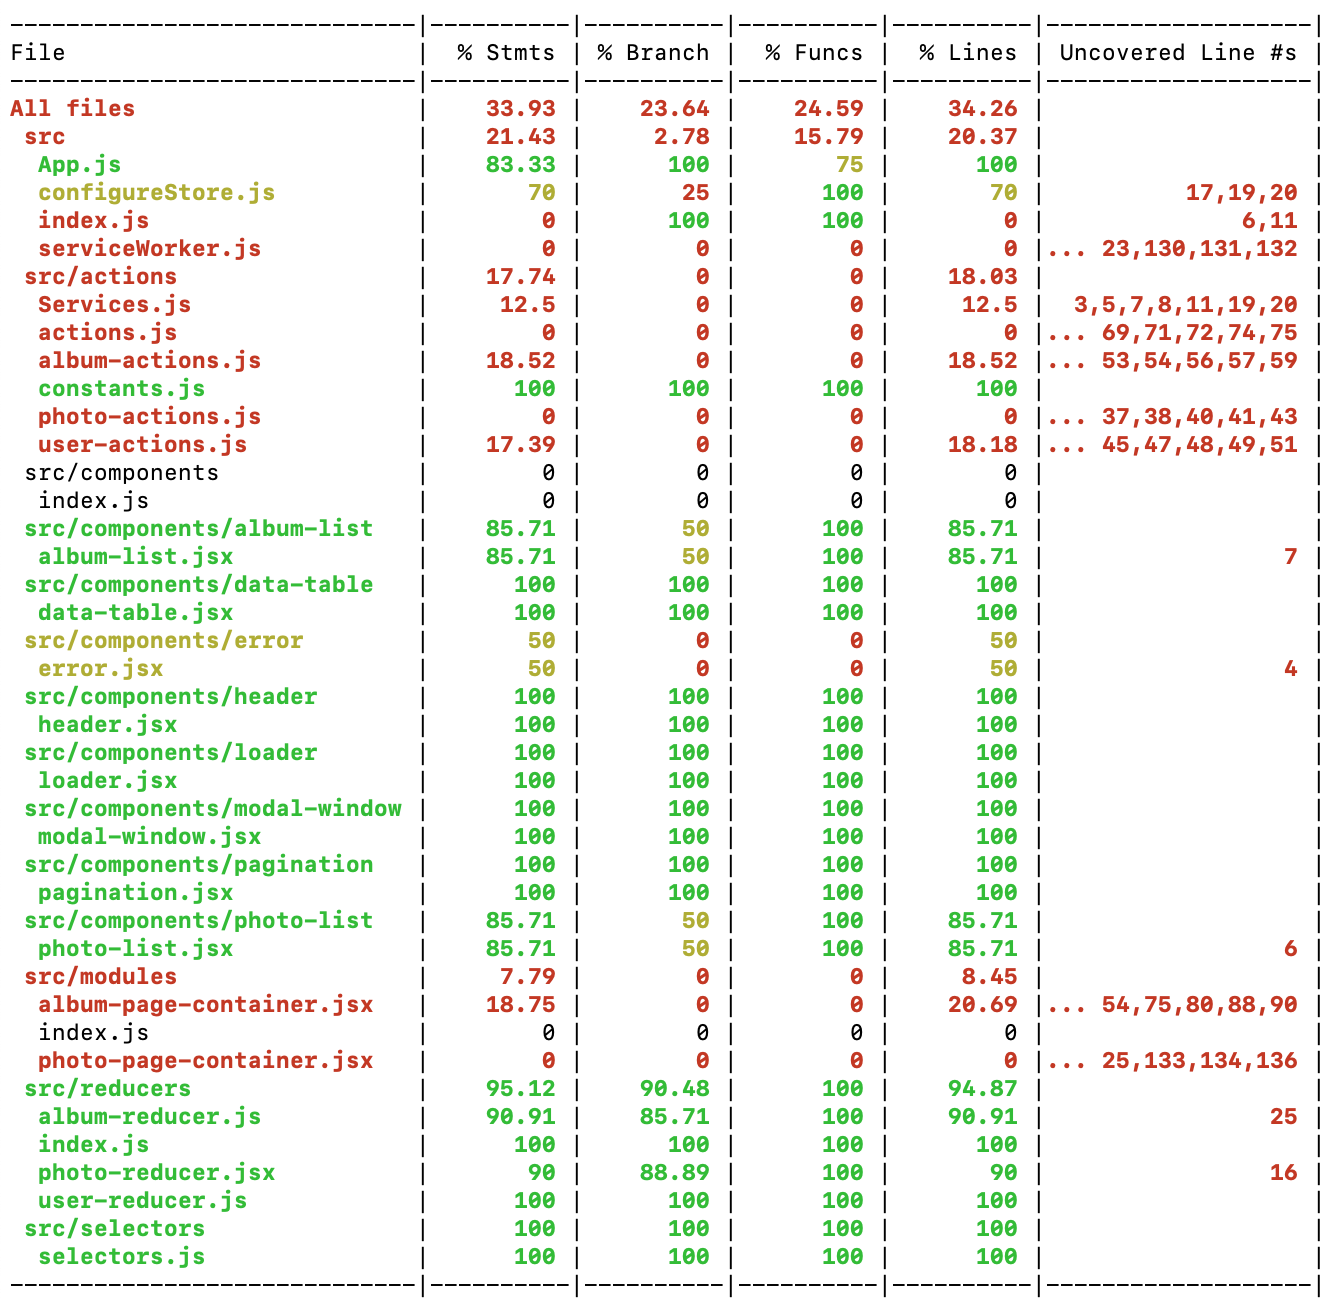
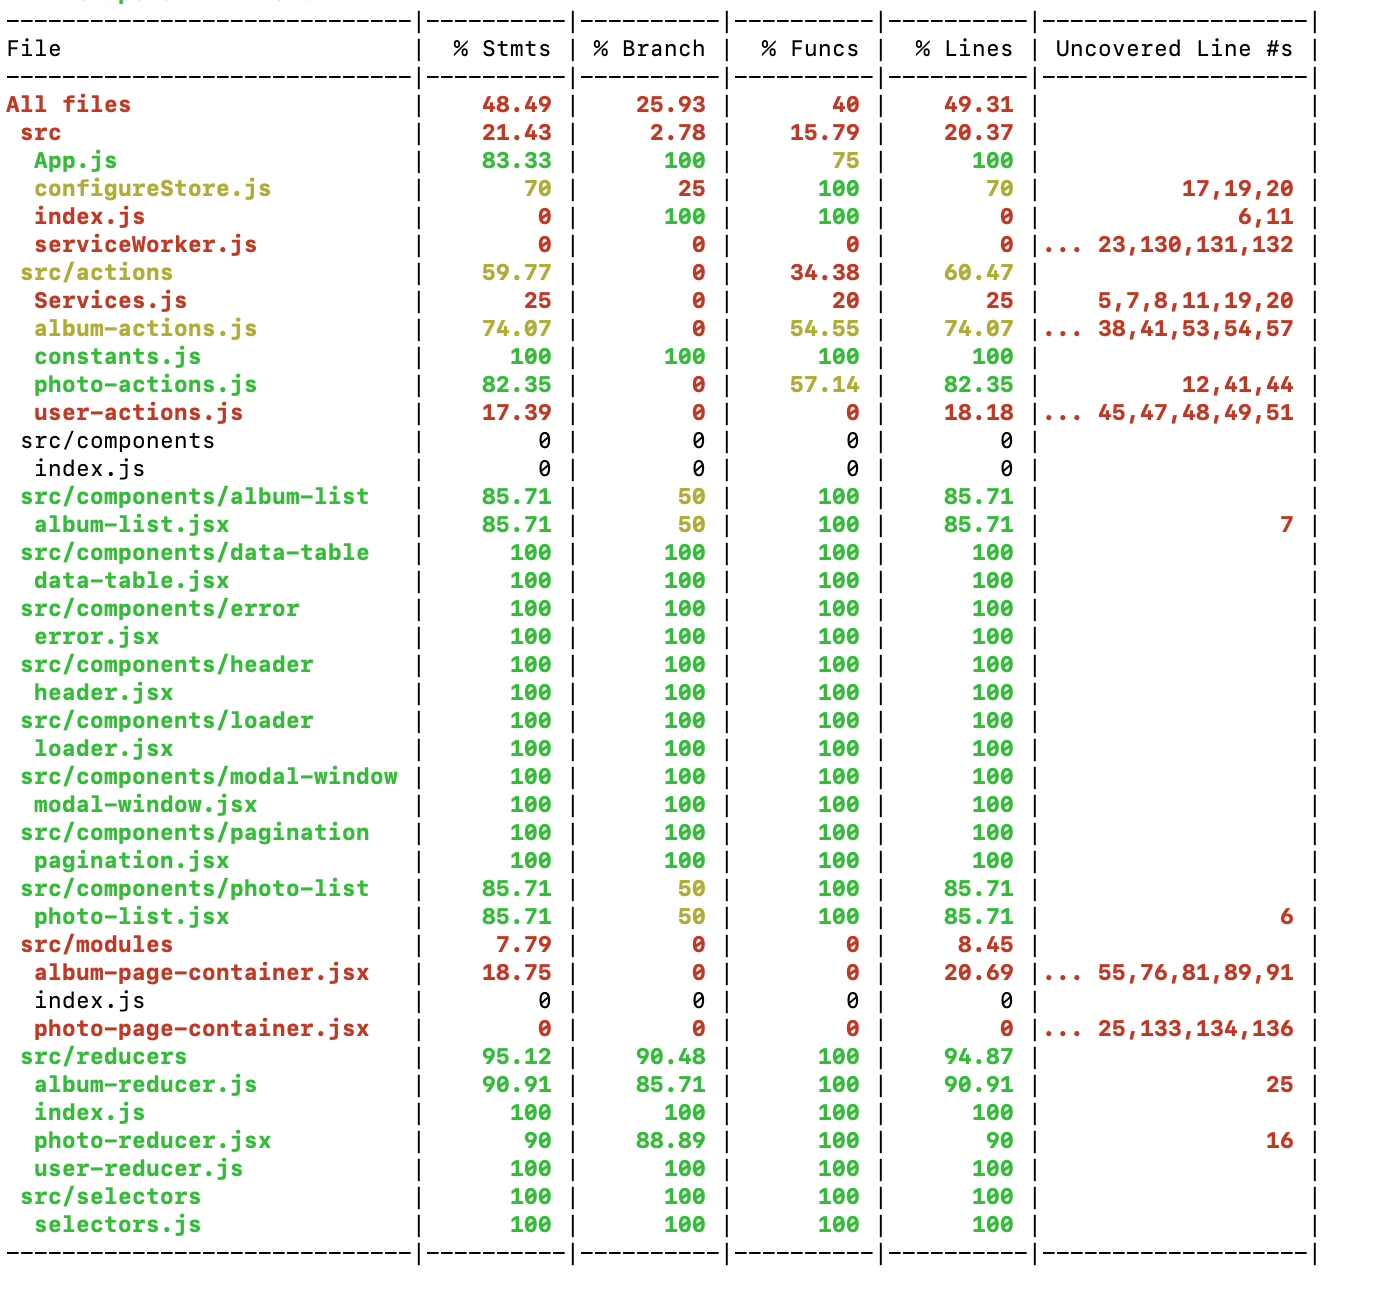
modified the action tests and added test case for error component and its snapshot

diff --git a/src/components/error/error.test.js b/src/components/error/error.test.js
@@ -1,0 +1,19 @@
+import React from "react";
+import Error from "./error";
+import { shallow, mount } from "enzyme";
+
+describe("Error component Component", () => {
+
+    const onClose = jest.fn();
+
+    it("Should render the error message", () => {
+        const tree = shallow(<Error />)
+        expect(tree).toMatchSnapshot();
+    });
+
+    it('should render all the components isnide the error component and its heading', () => {
+        const wrapper = mount(<Error error={'No data found'}/>);
+        expect(wrapper.find('h1').length).toBe(1);
+    });
+
+});

diff --git a/src/actions/tests/album-actions.test.js b/src/actions/tests/album-actions.test.js
@@ -41,7 +41,7 @@ describe('Album Action', () => {
         expect(fetchAlbumsLoading()).toEqual(expectedAction);
     });
 
-    fit('creates GET_ALBUMS_SUCCESS when fetching albums is done', () => {
+    it('creates GET_ALBUMS_SUCCESS when fetching albums is done', () => {
         const expectedActions = [
           {type: GET_ALBUMS_LOADING},
           { type: GET_ALBUMS_SUCCESS, albums },

diff --git a/src/actions/tests/photo-actions.test.js b/src/actions/tests/photo-actions.test.js
@@ -42,7 +42,7 @@ describe('Photo Action', () => {
         expect(fetchPhotosLoading()).toEqual(expectedAction);
     });
 
-    fit('creates GET_PHOTOS_SUCCESS when fetching albums is done', () => {
+    it('creates GET_PHOTOS_SUCCESS when fetching albums is done', () => {
         const expectedActions = [
           {type: GET_ALBUMS_LOADING},
           {type: GET_PHOTOS_LOADING},
